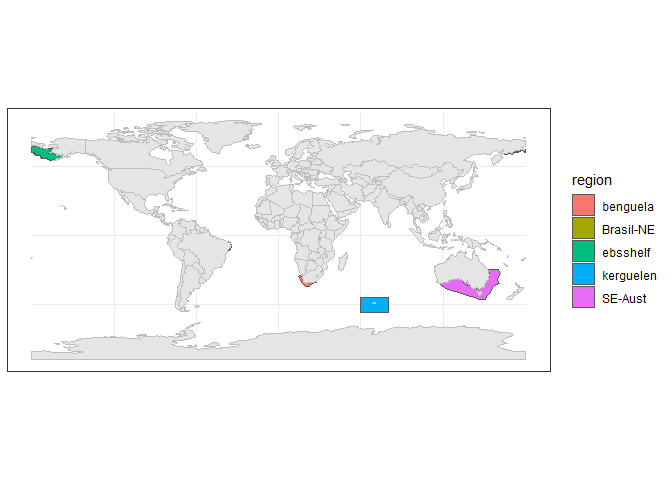
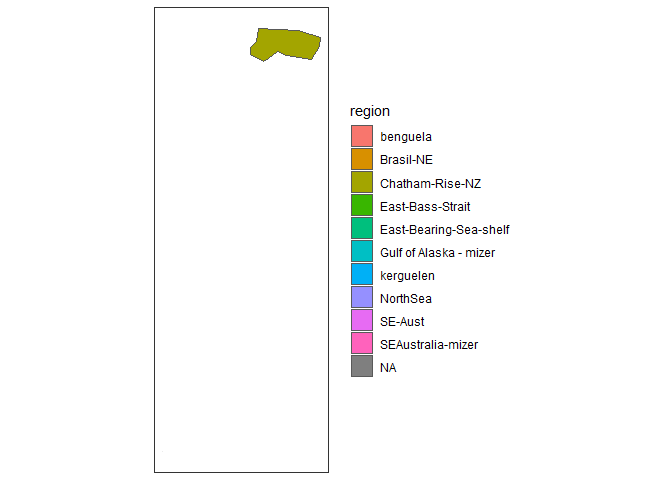
Including updated shapefiles

Changed region(s): [[0.0312, 0.2188, 0.7812, 0.8125], [0.8438, 0.3438, 1.0, 0.6562], [0.375, 0.0625, 0.5, 0.125]]

diff --git a/Scripts/Creating_Your_Own_Mask_From_Shapefiles.md b/Scripts/Creating_Your_Own_Mask_From_Shapefiles.md
@@ -66,7 +66,10 @@ names_regions <- str_split_fixed(names_regions, "_", n = 2)[,1]
 names_regions
 ```
 
-    ## [1] "benguela"  "Brasil-NE" "ebsshelf"  "kerguelen" "SE-Aust"
+    ##  [1] "benguela"               "Brasil-NE"              "Chatham-Rise-NZ"       
+    ##  [4] "East-Bass-Strait"       "East-Bearing-Sea-shelf" "Gulf of Alaska - mizer"
+    ##  [7] "kerguelen"              "NorthSea"               "SE-Aust"               
+    ## [10] "SEAustralia-mizer"
 
 ### Getting file paths for shapefiles
 
@@ -77,11 +80,17 @@ regions_paths <- list.files(path = "../Data/Shapefiles_Regions/", pattern = ".sh
 regions_paths
 ```
 
-    ## [1] "../Data/Shapefiles_Regions//benguela_shapefiles/model_regions_v3_geo.shp"        
-    ## [2] "../Data/Shapefiles_Regions//Brasil-NE_regional_Model/BRA_NE_Model.shp"           
-    ## [3] "../Data/Shapefiles_Regions//ebsshelf_all_shp/ebsshelf_all.shp"                   
-    ## [4] "../Data/Shapefiles_Regions//kerguelen_shapefiles/Ecopath_model_domain_curved.shp"
-    ## [5] "../Data/Shapefiles_Regions//SE-Aust_shapefiles/Atlantis_SE_boundary_box.shp"
+    ##  [1] "../Data/Shapefiles_Regions//benguela_shapefiles/model_regions_v3_geo.shp"                  
+    ##  [2] "../Data/Shapefiles_Regions//Brasil-NE_regional_Model/BRA_NE_Model.shp"                     
+    ##  [3] "../Data/Shapefiles_Regions//Chatham-Rise-NZ_Mizer/CHAT30_aea.shp"                          
+    ##  [4] "../Data/Shapefiles_Regions//Chatham-Rise-NZ_Mizer/CHAT30_LL.shp"                           
+    ##  [5] "../Data/Shapefiles_Regions//East-Bass-Strait_EwE/bulman_region.shp"                        
+    ##  [6] "../Data/Shapefiles_Regions//East-Bearing-Sea-shelf_subregions10_60/EBS_subregions10_60.shp"
+    ##  [7] "../Data/Shapefiles_Regions//Gulf of Alaska - mizer/GOA.shp"                                
+    ##  [8] "../Data/Shapefiles_Regions//kerguelen_shapefiles/Ecopath_model_domain_curved.shp"          
+    ##  [9] "../Data/Shapefiles_Regions//NorthSea_IBTS_mizer/Shapefile.shp"                             
+    ## [10] "../Data/Shapefiles_Regions//SE-Aust_shapefiles/Atlantis_SE_boundary_box.shp"               
+    ## [11] "../Data/Shapefiles_Regions//SEAustralia-mizer_shapefiles/sess_cts.shp"
 
 ### Loading regions
 
@@ -90,6 +99,13 @@ reference system (CRS) prior to creating a single shapefile. We will
 load each shapefile into a list and change the CRS if necessary. We are
 also making sure that any shapefiles that cross the international
 dateline are shown correctly when WGS84 CRS (EPSG:4326) is assigned.
+
+``` r
+#Switching off spherical geometry prior to accessing and cropping world shapefile
+sf_use_s2(F)
+```
+
+    ## Spherical geometry (s2) switched off
 
 ``` r
 #Create empty list to store shapefiles
@@ -109,17 +125,41 @@ for(i in seq_along(regions_paths)){
         #Make sure it wraps around the international dateline
         st_wrap_dateline(options = c("WRAPDATELINE=YES", "DATELINEOFFSET=180"))
     }
+  
   #Remove internal region boundaries
   reg_raw <- reg_raw %>% 
     group_by(region) %>% 
-    summarise()
+    summarise() %>% 
+    #Ensure there are only two dimensions
+    st_zm()
+  
+  #Make sure final area is polygon only
+  if(unique(st_geometry_type(reg_raw)) != "POLYGON"){
+    reg_raw <- st_cast(reg_raw, "POLYGON", do_split = F)
+  }
   
   #Saving shapefiles in empty list
   AOI_list[[i]] <- reg_raw
 }
 ```
 
-    ## st_as_s2(): dropping Z and/or M coordinate
+    ## although coordinates are longitude/latitude, st_union assumes that they are planar
+
+    ## although coordinates are longitude/latitude, st_union assumes that they are planar
+    ## although coordinates are longitude/latitude, st_union assumes that they are planar
+    ## although coordinates are longitude/latitude, st_union assumes that they are planar
+    ## although coordinates are longitude/latitude, st_union assumes that they are planar
+    ## although coordinates are longitude/latitude, st_union assumes that they are planar
+
+    ## Warning in st_cast.MULTIPOLYGON(X[[i]], ...): polygon from first part only
+
+    ## although coordinates are longitude/latitude, st_union assumes that they are planar
+    ## although coordinates are longitude/latitude, st_union assumes that they are planar
+
+    ## Warning in st_cast.MULTIPOLYGON(X[[i]], ...): polygon from first part only
+
+    ## although coordinates are longitude/latitude, st_union assumes that they are planar
+    ## although coordinates are longitude/latitude, st_union assumes that they are planar
 
 Now that all shapefiles are in the same CRS, we can create a single
 shapefile for all LME regions.
@@ -154,7 +194,7 @@ st_write(LMEs, "../Data/Masks/FishMIP_LMEs_all.shp", append = F)
     ## Deleting layer `FishMIP_LMEs_all' using driver `ESRI Shapefile'
     ## Writing layer `FishMIP_LMEs_all' to data source 
     ##   `../Data/Masks/FishMIP_LMEs_all.shp' using driver `ESRI Shapefile'
-    ## Writing 5 features with 1 fields and geometry type Unknown (any).
+    ## Writing 11 features with 1 fields and geometry type Polygon.
 
 ## Extract data with multipolygon feature
 
@@ -162,10 +202,14 @@ Finally, we will use the newly created shapefile to extract data for our
 regions of interest.
 
 ``` r
+#Getting file paths of raster with global total catch data
+data_file <- list.files(path = "../Data/", pattern = ".*global.*nc$", full.names = T)
+
 #Loading sample raster from disk
-data_file <- "../Data/ecoocean_gfdl-esm4_nobasd_historical_histsoc_default_tc_global_monthly_1950_2014.nc"
 tc_raster <- read_stars(data_file)%>% 
   st_set_crs(st_crs(LMEs))
+
+#Change name of variable for easier access to data
 names(tc_raster) <- "tc"
 
 max_val <- max(tc_raster$tc)
@@ -190,6 +234,19 @@ plot(tc1)
 
 ``` r
 tc1_crop <- st_crop(tc1, LMEs)
+```
+
+    ## Warning in st_is_longlat(x): bounding box has potentially an invalid value range
+    ## for longlat data
+
+    ## although coordinates are longitude/latitude, st_union assumes that they are planar
+
+    ## Warning in st_is_longlat(x): bounding box has potentially an invalid value range
+    ## for longlat data
+
+    ## although coordinates are longitude/latitude, st_intersects assumes that they are planar
+
+``` r
 plot(tc1_crop)
 ```
 
@@ -199,6 +256,19 @@ plot(tc1_crop)
 
 ``` r
 tc1_crop2 <- tc1[LMEs]
+```
+
+    ## Warning in st_is_longlat(x): bounding box has potentially an invalid value range
+    ## for longlat data
+
+    ## although coordinates are longitude/latitude, st_union assumes that they are planar
+
+    ## Warning in st_is_longlat(x): bounding box has potentially an invalid value range
+    ## for longlat data
+
+    ## although coordinates are longitude/latitude, st_intersects assumes that they are planar
+
+``` r
 plot(tc1_crop2)
 ```
 
@@ -243,5 +313,7 @@ ts_lme %>%
   ggplot(aes(date, mean_tc))+
   geom_line(aes(colour = region))
 ```
+
+    ## Warning: Removed 780 row(s) containing missing values (geom_path).
 
 ![](Creating_Your_Own_Mask_From_Shapefiles_files/figure-gfm/ts_plot-1.png)<!-- -->
